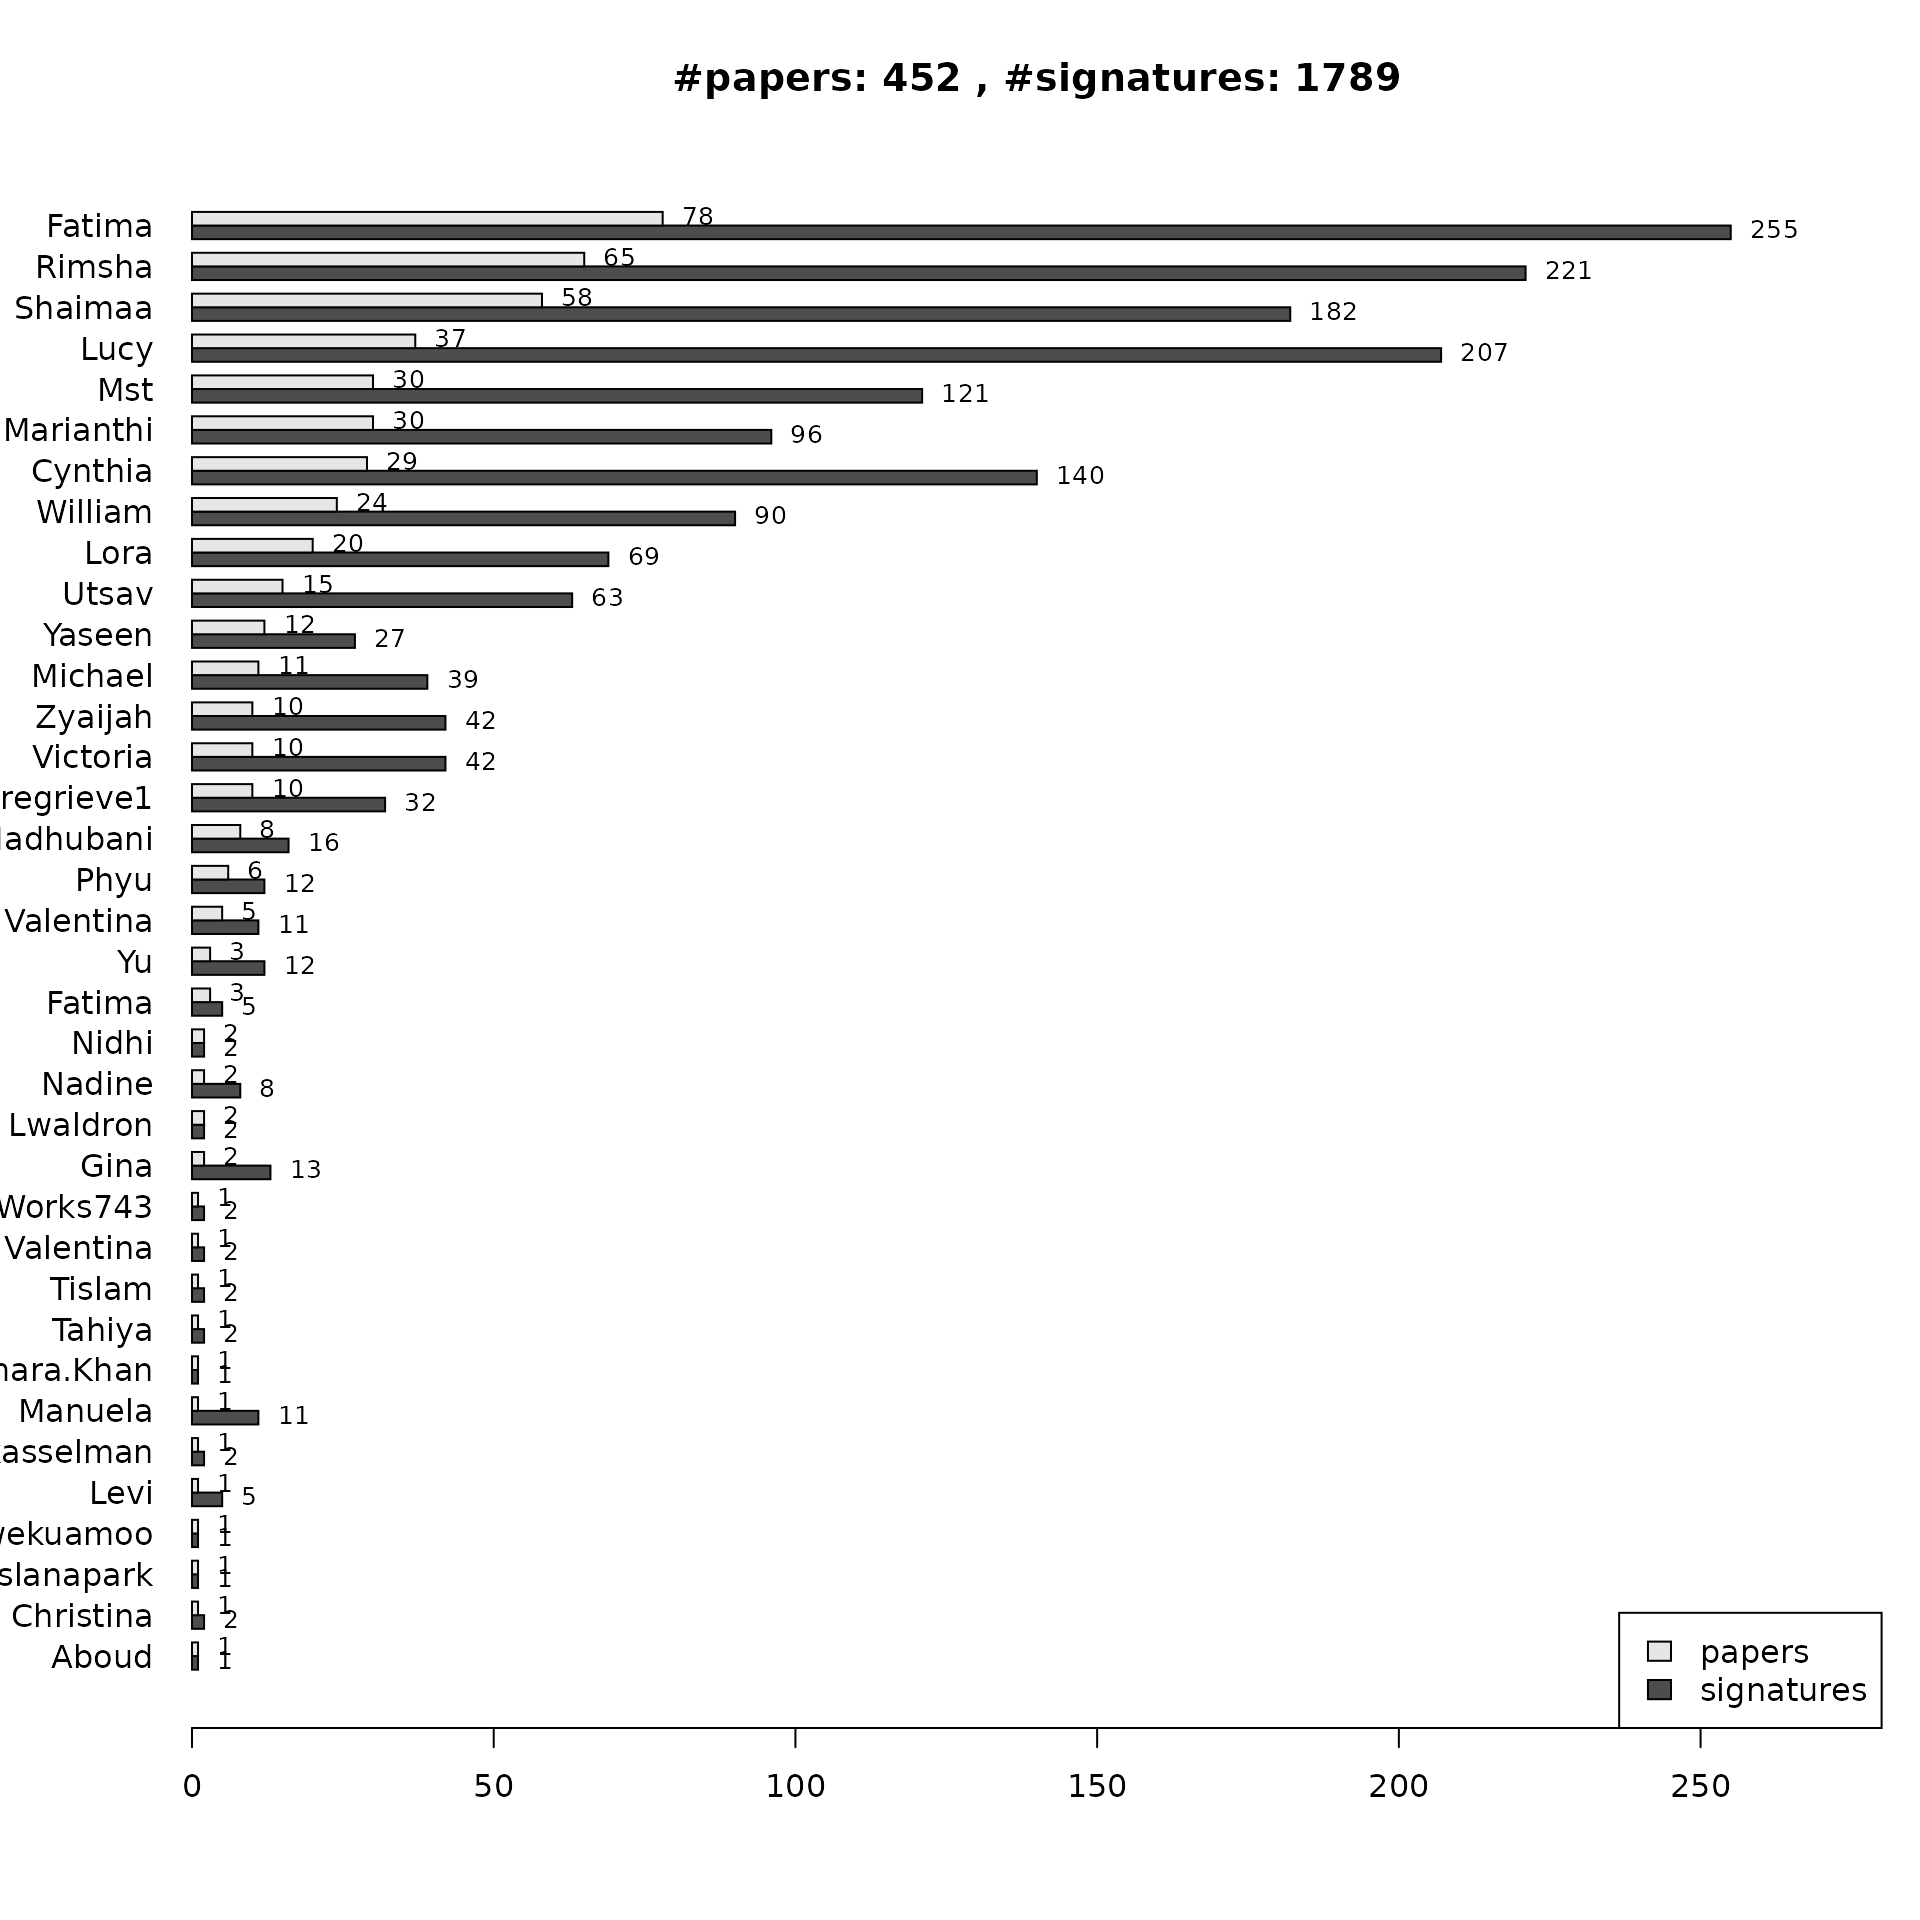
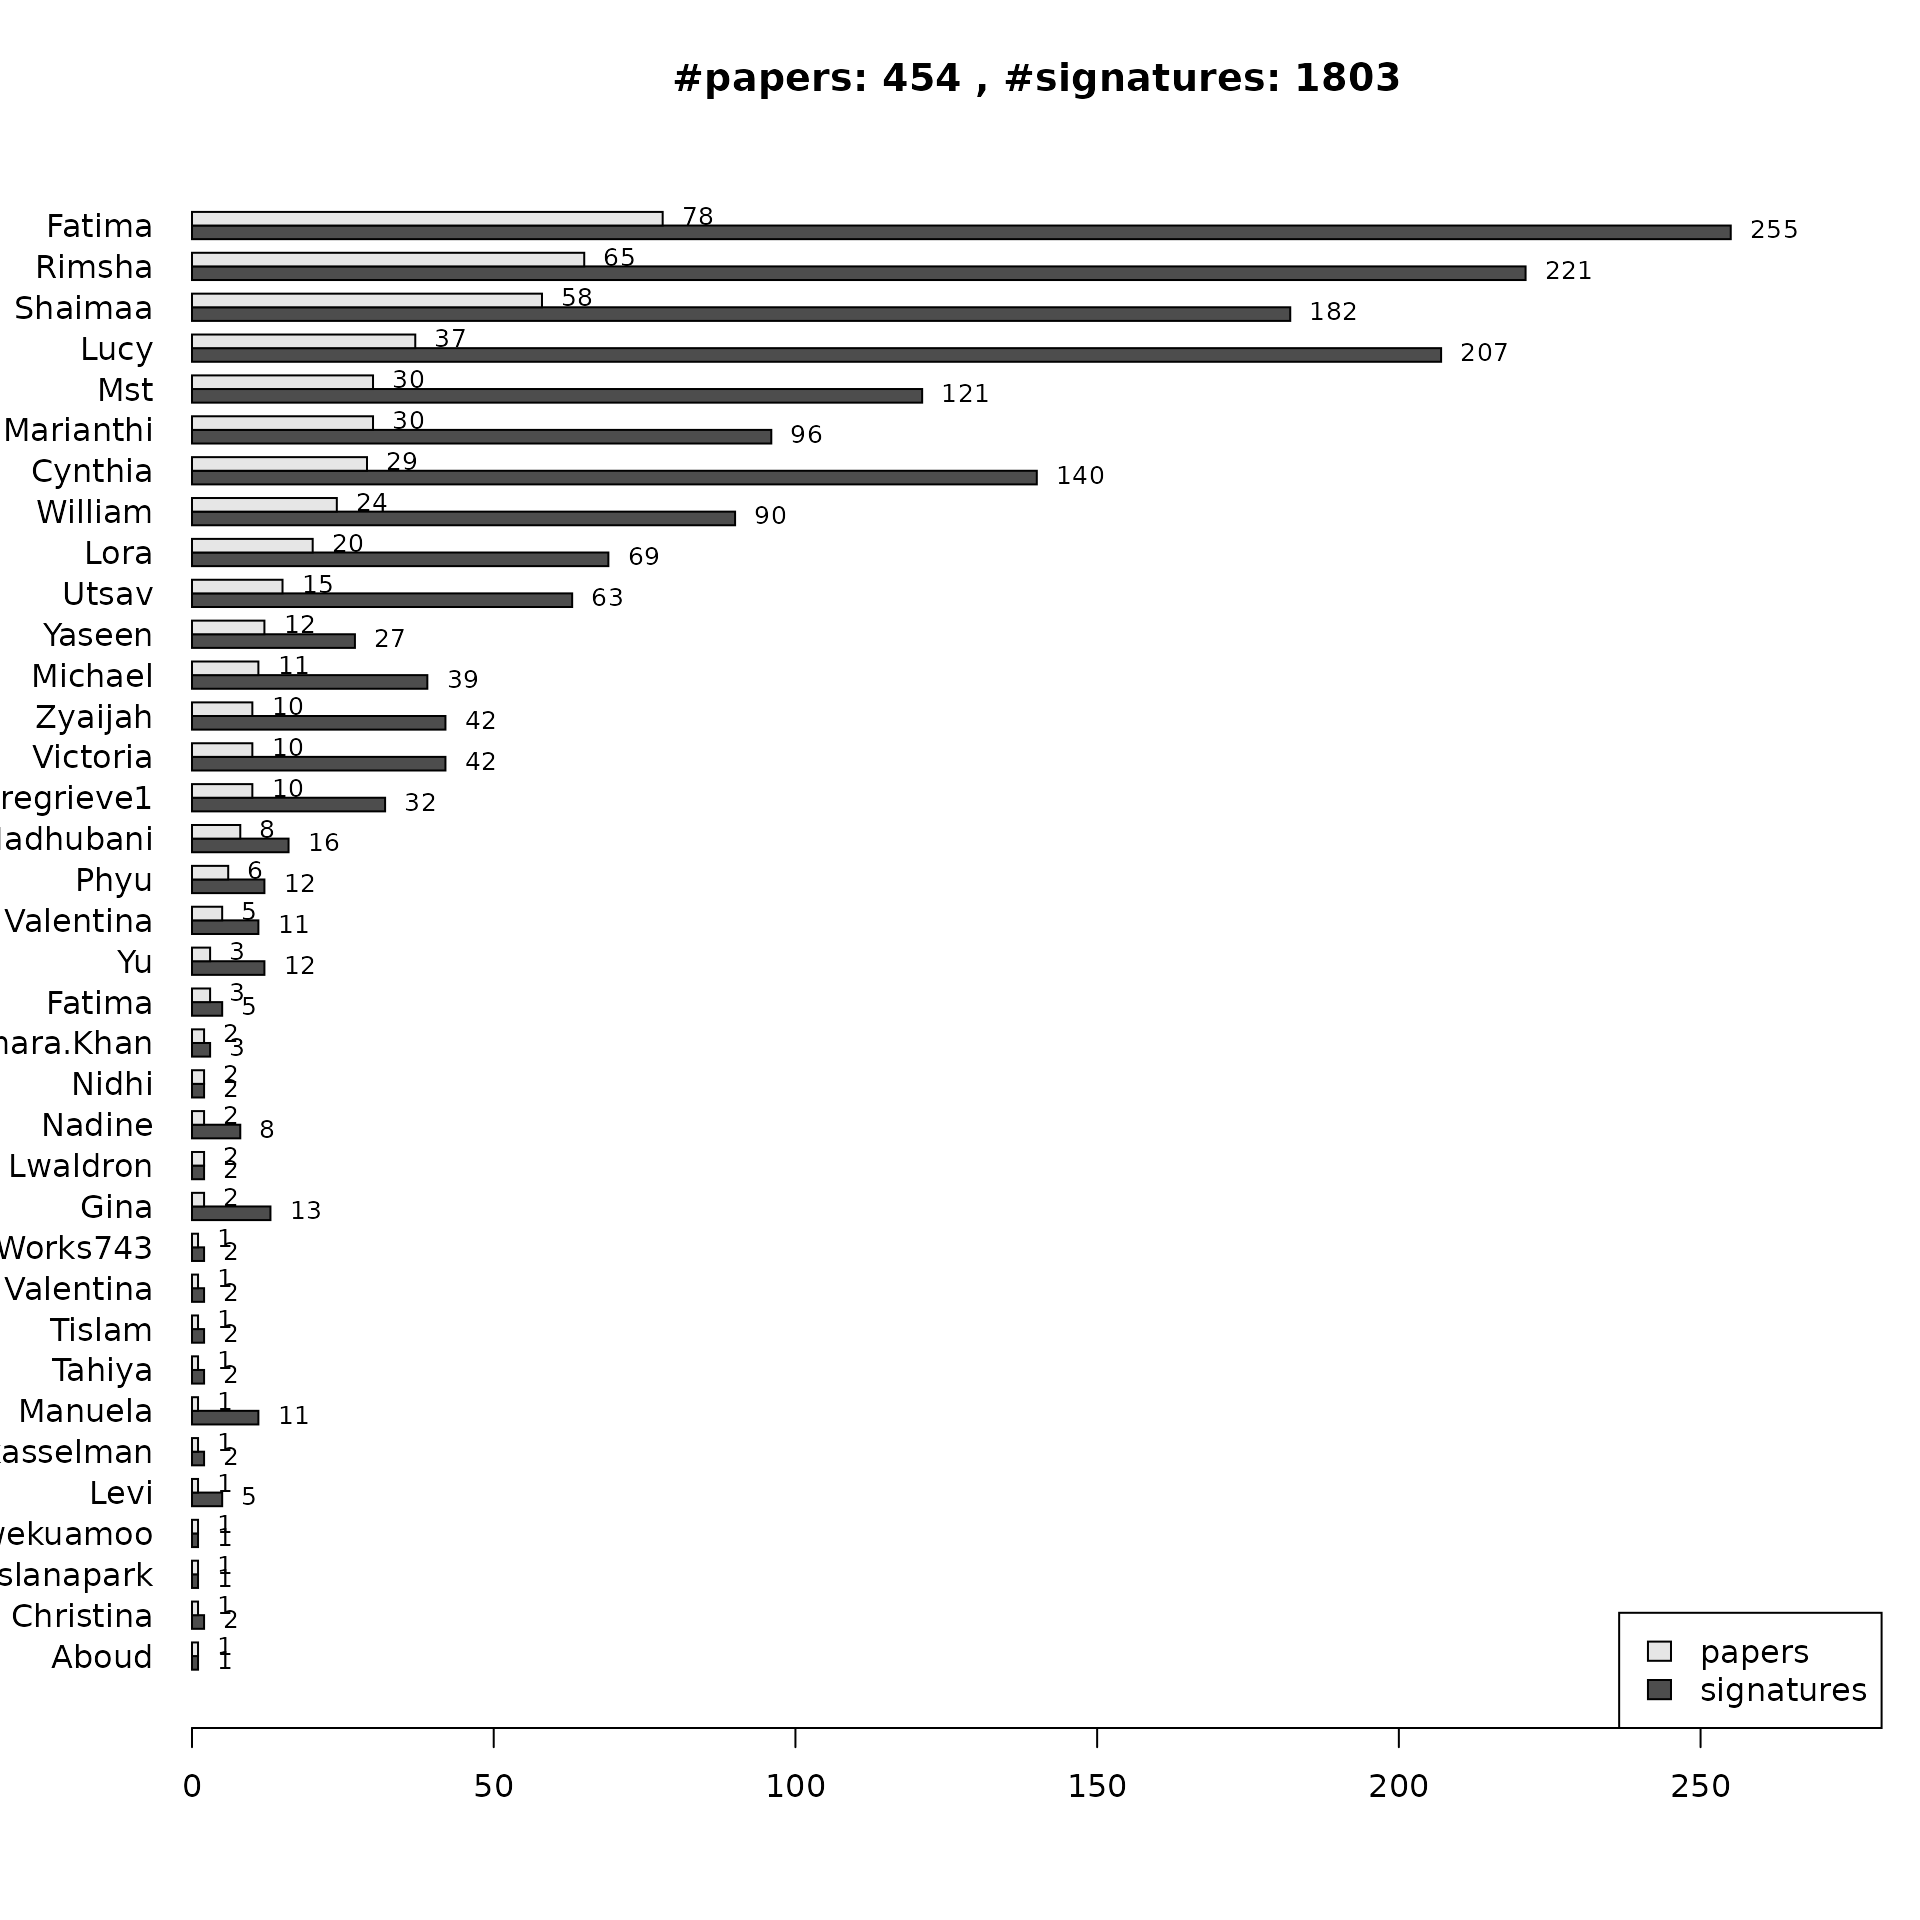
Deploying to gh-pages from  @ 9c0e06229ef63542f44c7cb56ad935cc12b6708c 🚀

Changed region(s): [[0.0, 0.5312, 0.1562, 0.7188], [0.6875, 0.0312, 0.7188, 0.0625], [0.4688, 0.0312, 0.5, 0.0625]]

diff --git a/articles/BugSigDBStats.html b/articles/BugSigDBStats.html
@@ -85,7 +85,7 @@
 <p>Get bulk export from bugsigdb.org:</p>
 <div class="sourceCode" id="cb2"><pre class="downlit">
 <span class="va">full.dat</span> <span class="op">&lt;-</span> <span class="fu">bugsigdbr</span><span class="fu">::</span><span class="fu"><a href="https://rdrr.io/pkg/bugsigdbr/man/importBugSigDB.html">importBugSigDB</a></span><span class="op">(</span><span class="op">)</span></pre></div>
-<pre><code>## using temporary cache /tmp/RtmpaErV4m/BiocFileCache</code></pre>
+<pre><code>## using temporary cache /tmp/RtmpIKr9X2/BiocFileCache</code></pre>
 <pre><code>## 
 ## ── Column specification ────────────────────────────────────────────────────────
 ## cols(
@@ -129,7 +129,7 @@
 ## )</code></pre>
 <div class="sourceCode" id="cb7"><pre class="downlit">
 <span class="fu"><a href="https://rdrr.io/r/base/dim.html">dim</a></span><span class="op">(</span><span class="va">full.dat</span><span class="op">)</span></pre></div>
-<pre><code>## [1] 1840   45</code></pre>
+<pre><code>## [1] 1853   45</code></pre>
 <div class="sourceCode" id="cb9"><pre class="downlit">
 <span class="fu"><a href="https://rdrr.io/r/base/colnames.html">colnames</a></span><span class="op">(</span><span class="va">full.dat</span><span class="op">)</span></pre></div>
 <pre><code>##  [1] "Study"                      "Study design"              
@@ -163,10 +163,10 @@
 <div class="sourceCode" id="cb11"><pre class="downlit">
 <span class="va">pmids</span> <span class="op">&lt;-</span> <span class="fu"><a href="https://rdrr.io/r/base/unique.html">unique</a></span><span class="op">(</span><span class="va">full.dat</span><span class="op">[</span>,<span class="st">"PMID"</span><span class="op">]</span><span class="op">)</span>
 <span class="fu"><a href="https://rdrr.io/r/base/length.html">length</a></span><span class="op">(</span><span class="va">pmids</span><span class="op">)</span></pre></div>
-<pre><code>## [1] 463</code></pre>
+<pre><code>## [1] 464</code></pre>
 <div class="sourceCode" id="cb13"><pre class="downlit">
 <span class="fu"><a href="https://rdrr.io/r/base/nrow.html">nrow</a></span><span class="op">(</span><span class="va">full.dat</span><span class="op">)</span></pre></div>
-<pre><code>## [1] 1840</code></pre>
+<pre><code>## [1] 1853</code></pre>
 <p>Publication date of the curated papers:</p>
 <div class="sourceCode" id="cb15"><pre class="downlit">
 <span class="va">pmids</span> <span class="op">&lt;-</span> <span class="va">pmids</span><span class="op">[</span><span class="op">!</span><span class="fu"><a href="https://rdrr.io/r/base/NA.html">is.na</a></span><span class="op">(</span><span class="va">pmids</span><span class="op">)</span><span class="op">]</span>
@@ -196,31 +196,27 @@
 <span class="co"># more realistic estimation of number of signatures curated</span>
 <span class="va">dat</span> <span class="op">&lt;-</span> <span class="fu"><a href="../reference/stripEmptySignatures.html">stripEmptySignatures</a></span><span class="op">(</span><span class="va">full.dat</span><span class="op">)</span>
 <span class="fu"><a href="https://rdrr.io/r/base/nrow.html">nrow</a></span><span class="op">(</span><span class="va">dat</span><span class="op">)</span></pre></div>
-<pre><code>## [1] 1789</code></pre>
+<pre><code>## [1] 1803</code></pre>
 <p>Papers containing only empty UP and DOWN signatures (under curation?):</p>
 <div class="sourceCode" id="cb20"><pre class="downlit">
 <span class="fu"><a href="https://rdrr.io/r/base/sets.html">setdiff</a></span><span class="op">(</span><span class="va">pmids</span>, <span class="fu"><a href="https://rdrr.io/r/base/unique.html">unique</a></span><span class="op">(</span><span class="va">dat</span><span class="op">[</span>,<span class="st">"PMID"</span><span class="op">]</span><span class="op">)</span><span class="op">)</span></pre></div>
 <pre><code>##  [1] 32295867 32937864 32415070 32728349 33903709 33851179 33833065 31910227
-##  [9] 33603076 33986253 32192080</code></pre>
+##  [9] 33603076 33986253</code></pre>
 <p>Progress over time:</p>
 <div class="sourceCode" id="cb22"><pre class="downlit">
 <span class="va">dat</span><span class="op">[</span>,<span class="st">"Curated date"</span><span class="op">]</span> <span class="op">&lt;-</span> <span class="fu"><a href="https://rdrr.io/r/base/character.html">as.character</a></span><span class="op">(</span><span class="fu">lubridate</span><span class="fu">::</span><span class="fu"><a href="http://lubridate.tidyverse.org/reference/ymd.html">dmy</a></span><span class="op">(</span><span class="va">dat</span><span class="op">[</span>,<span class="st">"Curated date"</span><span class="op">]</span><span class="op">)</span><span class="op">)</span>
 <span class="fu"><a href="../reference/plotProgressOverTime.html">plotProgressOverTime</a></span><span class="op">(</span><span class="va">dat</span><span class="op">)</span></pre></div>
-<pre><code>## Warning in rbind(cdbm, cpbm): number of columns of result is not a multiple of
-## vector length (arg 2)</code></pre>
 <p><img src="BugSigDBStats_files/figure-html/unnamed-chunk-3-1.png" width="960"></p>
-<div class="sourceCode" id="cb24"><pre class="downlit">
+<div class="sourceCode" id="cb23"><pre class="downlit">
 <span class="fu"><a href="../reference/plotProgressOverTime.html">plotProgressOverTime</a></span><span class="op">(</span><span class="va">dat</span>, diff <span class="op">=</span> <span class="cn">TRUE</span><span class="op">)</span></pre></div>
-<pre><code>## Warning in rbind(cdbm, cpbm): number of columns of result is not a multiple of
-## vector length (arg 2)</code></pre>
 <p><img src="BugSigDBStats_files/figure-html/unnamed-chunk-3-2.png" width="960"></p>
 <p>Stratified by curator:</p>
-<div class="sourceCode" id="cb26"><pre class="downlit">
+<div class="sourceCode" id="cb24"><pre class="downlit">
 <span class="va">npc</span> <span class="op">&lt;-</span> <span class="fu"><a href="../reference/stratifyByCurator.html">stratifyByCurator</a></span><span class="op">(</span><span class="va">dat</span><span class="op">)</span>
 <span class="fu"><a href="../reference/plotCuratorStats.html">plotCuratorStats</a></span><span class="op">(</span><span class="va">dat</span>, <span class="va">npc</span><span class="op">)</span></pre></div>
 <p><img src="BugSigDBStats_files/figure-html/curatorOutput-1.png" width="960"></p>
 <p>Number of revised signatures:</p>
-<div class="sourceCode" id="cb27"><pre class="downlit">
+<div class="sourceCode" id="cb25"><pre class="downlit">
 <span class="fu"><a href="https://rdrr.io/r/base/table.html">table</a></span><span class="op">(</span><span class="va">dat</span><span class="op">[</span>,<span class="st">"Revision editor"</span><span class="op">]</span><span class="op">)</span></pre></div>
 <pre><code>## 
 ##                        Claregrieve1                    Cynthia Anderson 
@@ -238,7 +234,7 @@
 ##                       Madhubani Dey                             Manuela 
 ##                                  16                                  11 
 ##                 Rimsha,WikiWorks743                         Samara.Khan 
-##                                   1                                   1 
+##                                   1                                   3 
 ##                              Tislam                           Valentina 
 ##                                   2                                   2 
 ## WikiWorks,WikiWorks743,WikiWorks753                        WikiWorks743 
@@ -249,13 +245,13 @@
 <h2 class="hasAnchor">
 <a href="#distances-between-signatures" class="anchor"></a>Distances between signatures</h2>
 <p>The <code>calcPairwiseOverlaps</code> function works quickly on all of bugsigdb currently, but <code>makeDist</code> is slow and surely could be improved for efficiency. For now, use only nasal samples:</p>
-<div class="sourceCode" id="cb29"><pre class="downlit">
+<div class="sourceCode" id="cb27"><pre class="downlit">
 <span class="va">dat_subset</span> <span class="op">&lt;-</span> <span class="va">dat</span><span class="op">[</span><span class="va">dat</span><span class="op">$</span><span class="va">`Body site`</span> <span class="op">%in%</span> <span class="st">"nasal cavity"</span>, <span class="op">]</span>
 <span class="va">sigs_subset</span> <span class="op">&lt;-</span> <span class="fu"><a href="https://rdrr.io/pkg/bugsigdbr/man/getSignatures.html">getSignatures</a></span><span class="op">(</span><span class="va">dat_subset</span><span class="op">)</span>
 <span class="va">paircomp</span> <span class="op">&lt;-</span> <span class="fu"><a href="../reference/calcPairwiseOverlaps.html">calcPairwiseOverlaps</a></span><span class="op">(</span><span class="va">sigs_subset</span><span class="op">)</span>
 <span class="va">jdist</span> <span class="op">&lt;-</span> <span class="fu"><a href="../reference/makeDist.html">makeDist</a></span><span class="op">(</span><span class="va">paircomp</span>, <span class="st">"jaccard"</span><span class="op">)</span></pre></div>
 <p>Create a dendrogram of Jaccard dissimilarities (1.0 has no overlap, 0.0 are identical signatures).</p>
-<div class="sourceCode" id="cb30"><pre class="downlit">
+<div class="sourceCode" id="cb28"><pre class="downlit">
 <span class="fu"><a href="https://rdrr.io/r/graphics/plot.default.html">plot</a></span><span class="op">(</span><span class="fu"><a href="https://rdrr.io/r/stats/hclust.html">hclust</a></span><span class="op">(</span><span class="va">jdist</span><span class="op">)</span><span class="op">)</span></pre></div>
 <p><img src="BugSigDBStats_files/figure-html/unnamed-chunk-6-1.png" width="768"></p>
 </div>
